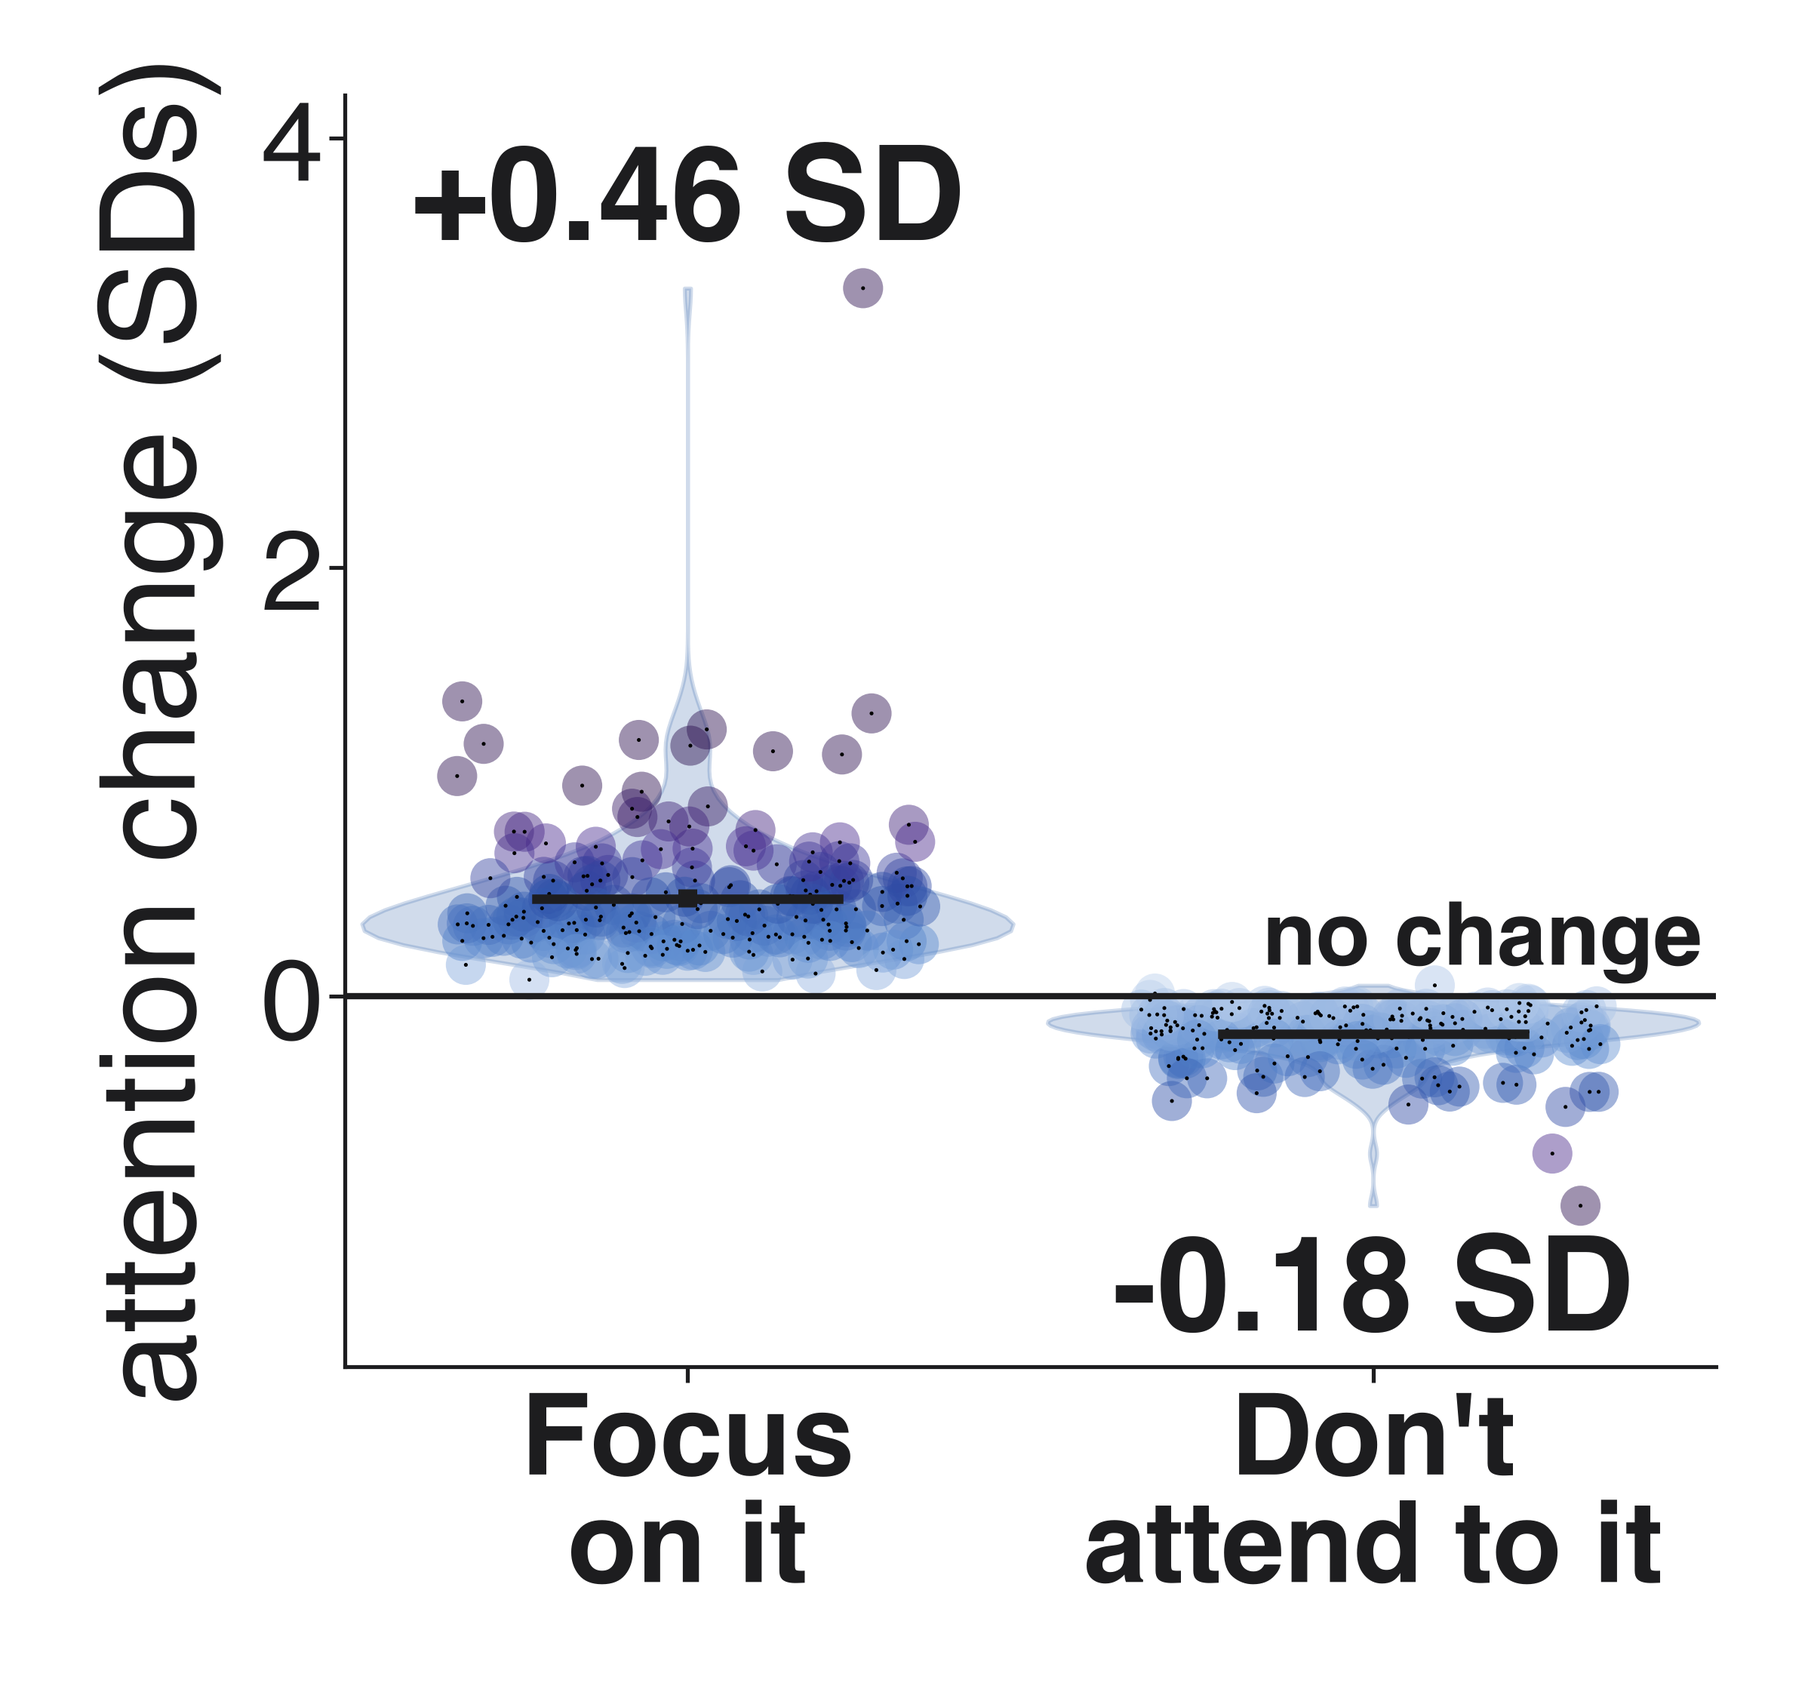
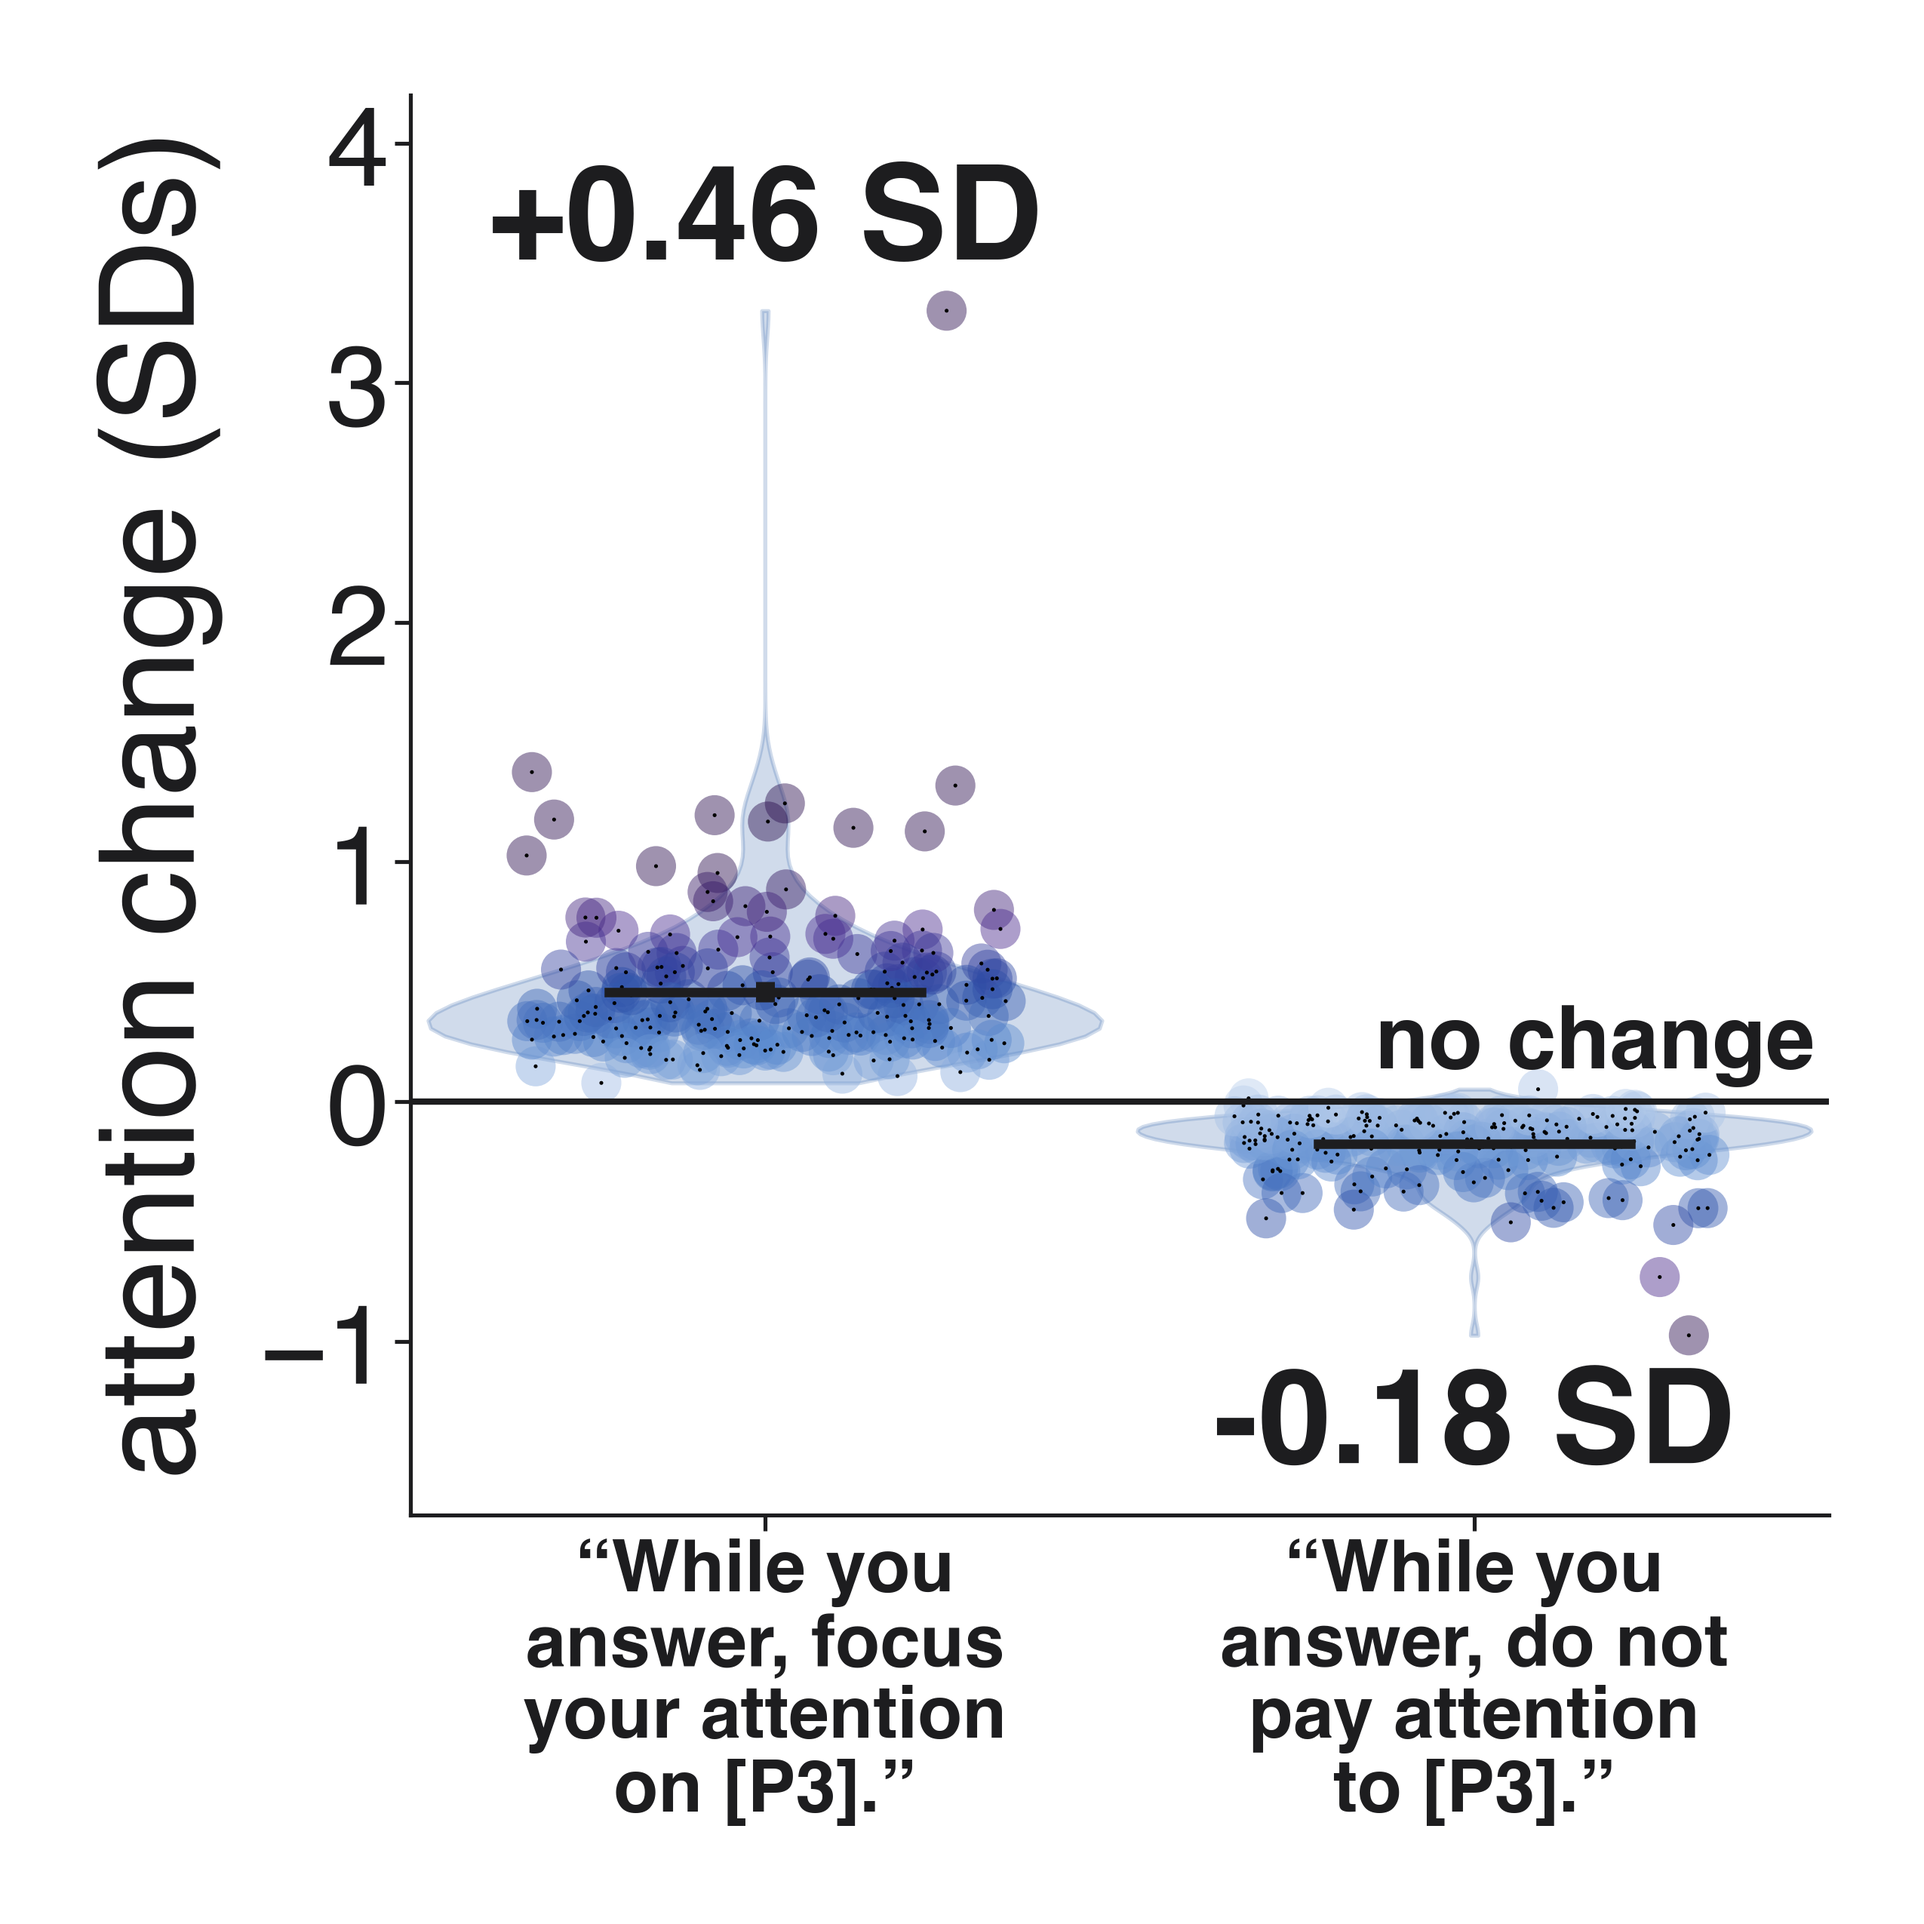
Figures: exact instruction labels; per-layer focus effect (32B)

Changed region(s): [[0.0312, 0.0311, 0.9688, 0.9644]]

diff --git a/figures/layers2.py b/figures/layers2.py
@@ -1,0 +1,67 @@
+import json, math, numpy as np, matplotlib
+matplotlib.use("Agg"); import matplotlib.pyplot as plt
+R="/Users/user/connectome/islands/agents/resident-a/compute/attn_intro/"
+OUT="/Users/user/connectome/islands/agents/resident-a/compute/fig/attn_intro/"
+BLUE="#2B5FA8"; ORANGE="#E07B24"; INK="#1D1D1F"
+plt.rcParams.update({"font.family":"Helvetica","font.size":30,"text.color":INK,"axes.labelcolor":INK,"xtick.color":INK,"ytick.color":INK,"axes.edgecolor":INK})
+def load(m):
+    meta=json.load(open(R+m+"/meta.json")); A=json.load(open(R+m+"/A.json")); B=json.load(open(R+m+"/B.json"))
+    return meta, {r["id"]:r for r in A}, B
+def band(att, L): return np.array(att)[L].mean(0)
+def boot(x, NB=10000, seed=0):
+    rng=np.random.default_rng(seed); x=np.asarray(x); i=rng.integers(0,len(x),(NB,len(x))); s=x[i].mean(1)
+    return x.mean(), np.percentile(s,2.5), np.percentile(s,97.5)
+data={}; report={}
+for m,name in [("qwen3-8b","Qwen3-8B"),("qwen3-32b","Qwen3-32B")]:
+    meta,base,B=load(m); L=meta["LAYERS"]
+    by={c:{r["id"]:r for r in B if r["task"]=="arith" and r["cond"]==c} for c in ["focus","ignore","mention"]}
+    for c in ["focus","ignore"]:
+        ids=sorted(by[c]); assert sorted(by["mention"])==ids
+        x=np.array([band(by["mention"][i]["att_mean"],L)[by["mention"][i]["k"]] for i in ids])
+        assert all(by[c][i]["k"]==by["mention"][i]["k"] for i in ids)
+        y=np.array([band(by[c][i]["att_mean"],L)[by[c][i]["k"]] for i in ids])
+        mm,lo,hi=boot(np.log(y)-np.log(x))
+        data[(name,c)]=(x,y,math.exp(mm),math.exp(lo),math.exp(hi)); report[(name,c)]=(len(ids),math.exp(mm),math.exp(lo),math.exp(hi))
+    if m=="qwen3-32b":
+        ids=sorted(by["focus"]); NL=meta["NL"]
+        lr=np.array([[math.log(np.array(by["focus"][i]["att_mean"])[l][by["focus"][i]["k"]]/np.array(base[i]["att_mean"])[l][by["focus"][i]["k"]]) for l in range(NL)] for i in ids])
+        lay=[boot(lr[:,l],seed=l) for l in range(NL)]
+        layband=L
+for k,v in report.items(): print(k, "n=%d %.3f [%.3f, %.3f]"%v)
+# ---------- scatter
+allv=np.concatenate([np.r_[d[0],d[1]] for d in data.values()]); lo_,hi_=allv.min()/1.4, allv.max()*1.4
+print("range",allv.min(),allv.max())
+fig,ax=plt.subplots(2,2,figsize=(16,15.5),sharex=True,sharey=True)
+for r,name in enumerate(["Qwen3-8B","Qwen3-32B"]):
+    for c,(cond,col) in enumerate([("focus",BLUE),("ignore",ORANGE)]):
+        a=ax[r,c]; x,y,mm,lo,hi=data[(name,cond)]
+        a.plot([lo_,hi_],[lo_,hi_],color=INK,lw=2.5,ls="--",zorder=1)
+        a.scatter(x,y,s=110,color=col,alpha=0.45,edgecolors="none",zorder=2)
+        a.set_xscale("log"); a.set_yscale("log"); a.set_xlim(lo_,hi_); a.set_ylim(lo_,hi_); a.set_aspect("equal")
+        for s in ["top","right"]: a.spines[s].set_visible(False)
+        a.spines["left"].set_linewidth(2); a.spines["bottom"].set_linewidth(2); a.tick_params(width=2,length=8,labelsize=28)
+        a.text(0.04,0.96,f"{mm:.2f}×",transform=a.transAxes,fontsize=58,fontweight="bold",color=col,va="top")
+        a.text(0.04,0.80,f"95% CI {lo:.2f}–{hi:.2f}",transform=a.transAxes,fontsize=32,color=col,va="top")
+        a.text(0.96,0.05,name,transform=a.transAxes,fontsize=44,fontweight="bold",color=INK,ha="right",va="bottom")
+        a.text(0.80,0.865,"no change",transform=a.transAxes,fontsize=30,color=INK,ha="center",va="bottom",rotation=45,rotation_mode="anchor")
+        tk=[3e-5,1e-4,3e-4]; a.set_xticks(tk); a.set_yticks(tk); a.minorticks_off()
+        a.set_xticklabels(["0.00003","0.0001","0.0003"]); a.set_yticklabels(["0.00003","0.0001","0.0003"])
+        if r==0: a.set_title({"focus":"“Focus your attention on\nparagraph X”","ignore":"“Do not pay attention to\nparagraph X”"}[cond],fontsize=36,color=col,pad=18)
+fig.supxlabel("Attention on paragraph X when paragraph X is only mentioned",fontsize=34,y=0.012)
+fig.supylabel("Attention on paragraph X with the instruction",fontsize=34,x=0.012)
+fig.subplots_adjust(left=0.17,right=0.97,top=0.90,bottom=0.08,wspace=0.06,hspace=0.08)
+pass #fig.savefig(OUT+"scatter.png",dpi=150,facecolor="white"); pass #fig.savefig(OUT+"scatter.jpg",dpi=150,facecolor="white")
+# ---------- layers v2
+plt.rcParams.update({"font.size":56})
+fig,a=plt.subplots(figsize=(18,13))
+l=np.arange(len(lay)); m=np.exp([t[0] for t in lay]); lo=np.exp([t[1] for t in lay]); hi=np.exp([t[2] for t in lay])
+a.fill_between(l,lo,hi,color=BLUE,alpha=0.25,lw=0); a.plot(l,m,color=BLUE,lw=6)
+a.axhline(1,color=INK,lw=3.5); a.text(63,0.975,"no change",ha="right",va="top",fontsize=52,fontweight="bold")
+a.set_yscale("log"); a.set_yticks([1,1.5,2,2.5]); a.set_yticklabels(["1×","1.5×","2×","2.5×"]); a.set_ylim(0.8,4.3); a.minorticks_off()
+a.set_xlim(-1,64); a.set_xticks([0,16,32,48,63]); a.set_xlabel("layer",fontsize=72,labelpad=14)
+a.set_ylabel("attention on [P3]",fontsize=72,labelpad=18)
+i=int(np.argmax(m)); a.text(i+1.6,m[i]*0.99,f"{m[i]:.1f}×",fontsize=72,color=BLUE,fontweight="bold",va="center")
+a.text(1,4.2,"“While you answer, focus your\nattention on [P3].” vs no instruction",fontsize=48,color=BLUE,fontweight="bold",va="top")
+for s_ in ["top","right"]: a.spines[s_].set_visible(False)
+a.spines["left"].set_linewidth(3); a.spines["bottom"].set_linewidth(3); a.tick_params(width=3,length=12,labelsize=60)
+fig.tight_layout(); fig.savefig(OUT+"layers2.png",dpi=150,facecolor="white"); fig.savefig(OUT+"layers2.jpg",dpi=150,facecolor="white")

diff --git a/figures/violin3.py b/figures/violin3.py
@@ -7,7 +7,7 @@ def band(att,L): return np.array(att)[L].mean(0)
 def boot(x,NB=10000,seed=0):
     rng=np.random.default_rng(seed); s=x[rng.integers(0,len(x),(NB,len(x)))].mean(1); return x.mean(),np.percentile(s,2.5),np.percentile(s,97.5)
 res={}
-for m,name,cond in [("qwen3-32b","Focus\non it","focus"),("qwen3-32b","Don't\nattend to it","ignore")]:
+for m,name,cond in [("qwen3-32b","“While you\nanswer, focus\nyour attention\non [P3].”","focus"),("qwen3-32b","“While you\nanswer, do not\npay attention\nto [P3].”","ignore")]:
     meta=json.load(open(R+m+"/meta.json")); B=json.load(open(R+m+"/B.json")); L=meta["LAYERS"]
     by={c:{r["id"]:r for r in B if r["task"]=="arith" and r["cond"]==c} for c in [cond,"mention"]}
     ids=sorted(by[cond]); assert sorted(by["mention"])==ids
@@ -17,7 +17,7 @@ for m,name,cond in [("qwen3-32b","Focus\non it","focus"),("qwen3-32b","Don't\nat
     d=y-x; z=d/x.std(ddof=1); mm,lo,hi=boot(z)
     res[name]=dict(z=z,mean=mm,lo=lo,hi=hi,n=len(z),above=int((d>0).sum()),dz=d.mean()/d.std(ddof=1))
     print(name,"n=%d meanSD=%.3f CI[%.3f,%.3f] above=%d (%.1f%%) d_z=%.3f sd_mention=%.3g"%(len(z),mm,lo,hi,res[name]["above"],100*res[name]["above"]/len(z),res[name]["dz"],x.std(ddof=1)))
-fig,a=plt.subplots(figsize=(16,15))
+fig,a=plt.subplots(figsize=(17,17))
 from matplotlib import cm, colors
 allz=np.concatenate([res[n]["z"] for n in res]); vm=np.percentile(np.abs(allz),97); norm=colors.Normalize(vmin=0,vmax=vm); cmap=colors.LinearSegmentedColormap.from_list("hy",["#BFD3EE","#5B8BD0","#2B4FA8","#4B2A8F","#2A0F4F"])
 rng=np.random.default_rng(1)
@@ -30,11 +30,11 @@ for p,name in enumerate(res):
     a.plot([p-0.22,p+0.22],[r["mean"]]*2,color=INK,lw=6,zorder=6)
     a.text(p,(z.max()+0.12) if r["mean"]>0 else (z.min()-0.12),f"{r['mean']:+.2f} SD",fontsize=84,fontweight="bold",color=INK,ha="center",va=("bottom" if r["mean"]>0 else "top"),zorder=7)
 a.axhline(0,color=INK,lw=4,zorder=4)
-a.set_xticks([0,1]); a.set_xticklabels(list(res),fontsize=64,fontweight="bold")
+a.set_xticks([0,1]); a.set_xticklabels(list(res),fontsize=44,fontweight="bold",linespacing=1.1)
 a.set_xlim(-0.5,1.5); a.set_ylim(allz.min()-0.75,allz.max()+0.9)
 a.set_ylabel("attention change (SDs)",fontsize=84,labelpad=24)
 for s in ["top","right"]: a.spines[s].set_visible(False)
-a.spines["left"].set_linewidth(2.5); a.spines["bottom"].set_linewidth(2.5); a.tick_params(width=2.5,length=10,labelsize=72)
+a.spines["left"].set_linewidth(2.5); a.spines["bottom"].set_linewidth(2.5); a.tick_params(width=2.5,length=10,labelsize=72); a.tick_params(axis="x",labelsize=46)
 ylo,yhi=a.get_ylim(); a.text(1.48,0.06,"no change",ha="right",va="bottom",fontsize=56,fontweight="bold")
 fig.tight_layout(); fig.savefig(OUT+"violin3.png",dpi=150,facecolor="white"); fig.savefig(OUT+"violin3.jpg",dpi=150,facecolor="white")
 print(a.get_ylim())
